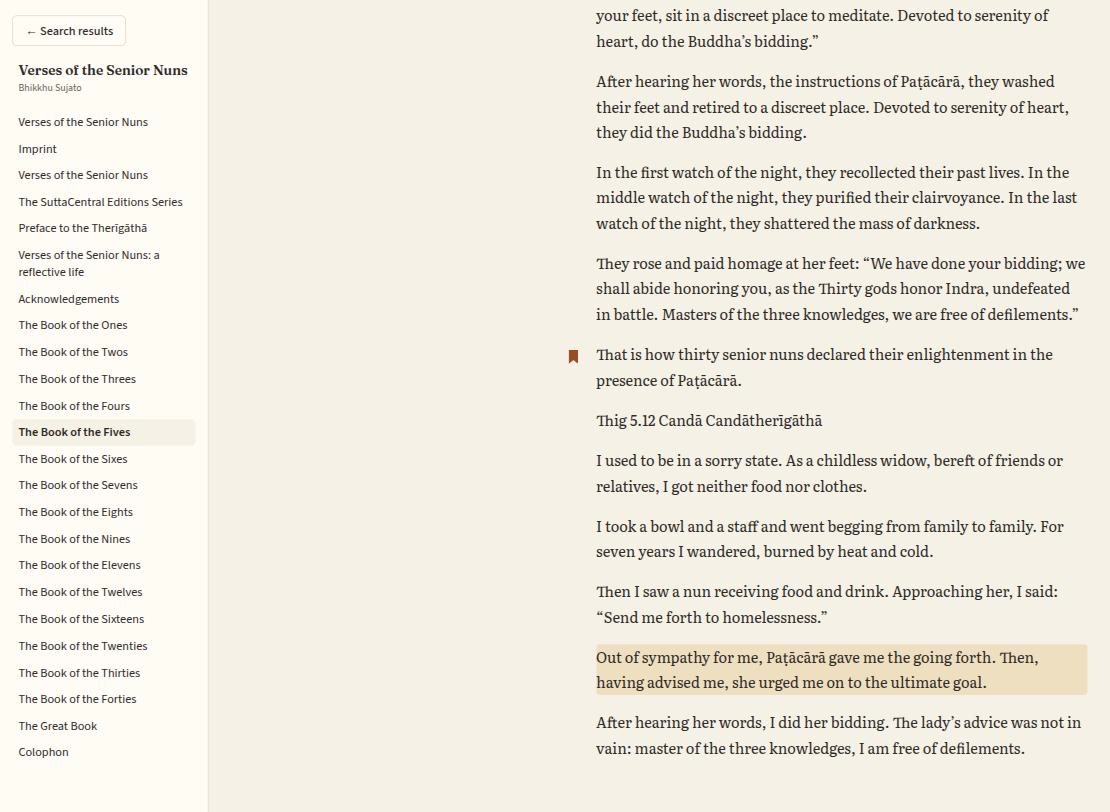
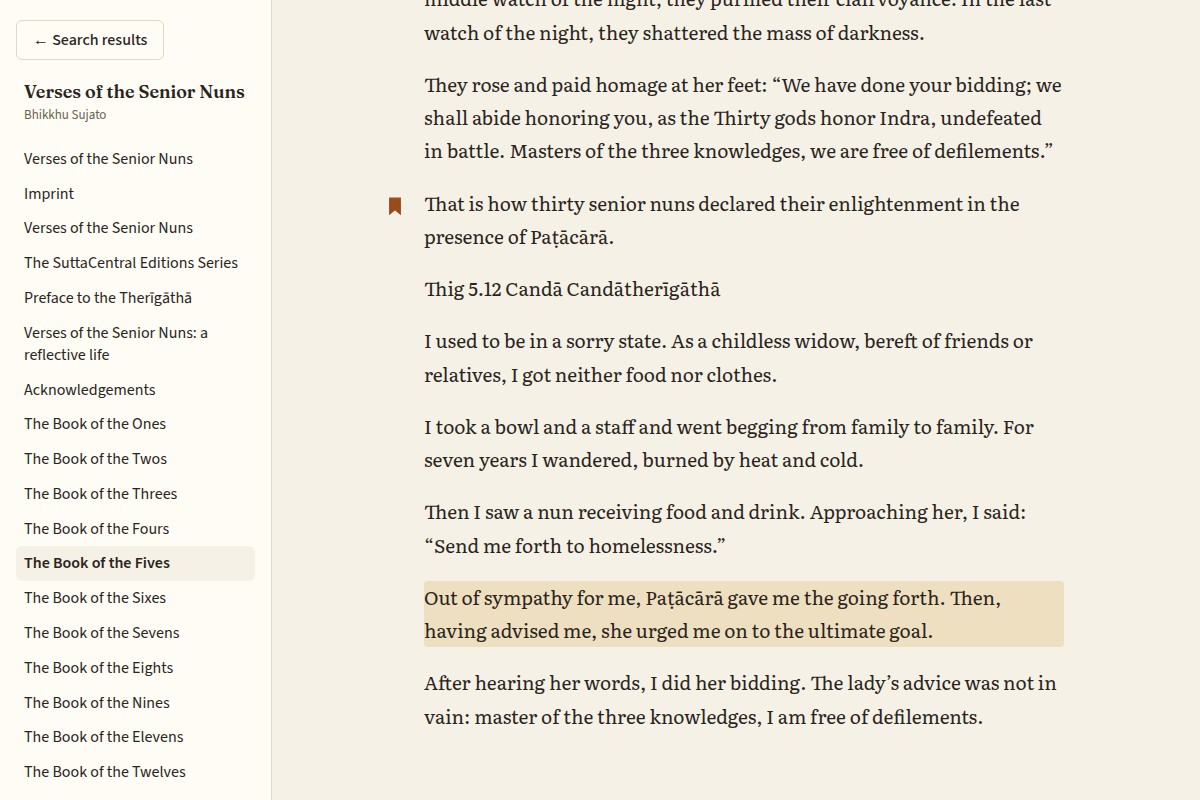
Retake the reader screenshot without the big gap beside the text
The project page's reader screenshot was taken in a window wider than
the reader's 1280px breakpoint, where the text shares a centred block
with an always-present note margin. Cropping off the empty margin on
the right left a wide hole between the chapter list and the text.

It's retaken from the demo at 1200x800, below the breakpoint, showing
the same search hit in the single-column reader. The page's image size
matches the new shot, and the README records how it was made.

diff --git a/site/index.html b/site/index.html
@@ -100,7 +100,7 @@
             landed.
           </p>
         </div>
-        <img src="screenshots/reader.jpg" alt="The reader showing a chapter list and a highlighted paragraph" width="1110" height="812" loading="lazy" />
+        <img src="screenshots/reader.jpg" alt="The reader showing a chapter list and a highlighted paragraph" width="1200" height="800" loading="lazy" />
       </section>
 
       <section class="feature">

diff --git a/README.md b/README.md
@@ -509,7 +509,11 @@ alongside the old one. Neither may change. The version comes from
   fallback weren't checked in a browser. The highlights and notes screenshot
   (`docs/screenshots/notes.jpg`) was made in `npm run dev:demo` by
   selecting and noting Paṭācārā's verses with the mouse, with the banner
-  removed and the fading hover icons of one paragraph painted out.
+  removed and the fading hover icons of one paragraph painted out. The
+  reader screenshot (`docs/screenshots/reader.jpg`) is the demo at
+  1200×800 after opening the "patacara" hit "Out of sympathy for me…",
+  with the banner removed. It's below the 1280px breakpoint, so it shows
+  the single-column reader without the empty note margin.
 - `npm run dev:mock` serves the same mocked UI on :1430 for a browser
   check; `/ship` walks it in Chrome with screenshots. Real layout and
   scrolling, but still not the Tauri window or the Rust side. Walked
